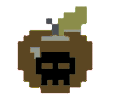
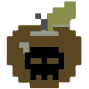
Updated sizes of objects

diff --git a/apple_catch.py b/apple_catch.py
@@ -25,8 +25,8 @@ def main():
     next_apple_time = time.time()
     next_worm_time = time.time() + 2
     next_poison_time = time.time() + random.randint(10, 40)
-    next_golden_apple = time.time() + random.randint(25, 55) # make this much longer
-    next_extra_jump = time.time() + random.randint(25, 55)
+    next_golden_apple = time.time() + random.randint(1, 2) # make this much longer
+    next_extra_jump = time.time() + random.randint(1, 2)
     next_speed_boost = time.time() + random.randint(1, 2) # make this much longer
     next_extra_lives_time = time.time() + random.randint(2, 4)
     next_turtle_time = time.time() + random.randint(5,10)
@@ -94,7 +94,7 @@ def main():
         # Initialize
         def __init__(self):
             super(Player, self).__init__()
-            self.surf = pygame.transform.scale(player_img, (100, 100)).convert_alpha()
+            self.surf = pygame.transform.scale(player_img, (75, 75)).convert_alpha()
             # self.surf.fill((255, 255, 255))
             self.rect = self.surf.get_rect(center=(starting_width, starting_height))
             self.speed = 5
@@ -181,7 +181,7 @@ def main():
             
             # Object Surface Properties
 
-            self.surf = pygame.transform.scale(apple_img, (50, 50)).convert_alpha()
+            self.surf = pygame.transform.scale(apple_img, (30, 30)).convert_alpha()
 
 
             # self.surf.fill((255, 255, 255))
@@ -195,7 +195,7 @@ def main():
             super(Golden_Apple, self).__init__()
 
             # Object surface properties
-            self.surf = pygame.transform.scale(gold_apple_img, (61, 50)).convert_alpha()
+            self.surf = pygame.transform.scale(gold_apple_img, (30, 30)).convert_alpha()
             # self.surf.fill((212, 175, 55))
             self.rect = self.surf.get_rect(center=(self.starting_x, -50))
 
@@ -208,7 +208,7 @@ def main():
             super(Worm, self).__init__()
 
             # Object Surface Properties
-            self.surf = pygame.transform.scale(worm_img, (40, 40)).convert_alpha()
+            self.surf = pygame.transform.scale(worm_img, (35, 35)).convert_alpha()
             # self.surf.fill((0, 0, 0))
             self.rect = self.surf.get_rect(center=(self.starting_x, -50))
 
@@ -225,7 +225,7 @@ def main():
             super(Poison_Apple, self).__init__()
 
             # Object Surface Properties
-            self.surf = pygame.transform.scale(bad_apple_img, (50, 50)).convert_alpha()
+            self.surf = pygame.transform.scale(bad_apple_img, (30, 30)).convert_alpha()
             # self.surf.fill((148, 178, 28))
             self.rect = self.surf.get_rect(center=(self.starting_x, -50))
 
@@ -242,7 +242,7 @@ def main():
             super(Extra_Jump, self).__init__()
 
             # Object Surface Properties
-            self.surf = pygame.transform.scale(extra_jump_img, (35, 40)).convert_alpha()
+            self.surf = pygame.transform.scale(extra_jump_img, (30, 58)).convert_alpha()
             # self.surf.fill((20, 20, 210))
             self.rect = self.surf.get_rect(center=(self.starting_x, -50))
 
@@ -255,7 +255,7 @@ def main():
             super(Speed_Boost, self).__init__()
 
             # Object Surface Properties
-            self.surf = pygame.transform.scale(speed_img, (35, 35)).convert_alpha()
+            self.surf = pygame.transform.scale(speed_img, (39, 30)).convert_alpha()
             # self.surf.fill((175, 55, 212))
             self.rect = self.surf.get_rect(center=(self.starting_x, -50))
 
@@ -269,7 +269,7 @@ def main():
         def __init__(self):
             super(Extra_Lives, self).__init__()
 
-            self.surf = pygame.transform.scale(red_heart_img, (50, 50)).convert_alpha()
+            self.surf = pygame.transform.scale(red_heart_img, (30, 30)).convert_alpha()
             # self.surf.fill((240, 180, 240))
             self.rect = self.surf.get_rect(center=(self.starting_x, -50))
 
@@ -281,7 +281,7 @@ def main():
             super(Turtle, self).__init__()
 
             # Object Surface Properties
-            self.surf = pygame.transform.scale(slow_img, (40, 40)).convert_alpha()
+            self.surf = pygame.transform.scale(slow_img, (44, 25)).convert_alpha()
             # self.surf.fill((240, 94, 35))
             self.rect = self.surf.get_rect(center=(self.starting_x, -50))
 
@@ -423,7 +423,7 @@ def main():
             if player_loss == False and player_victory == False:
                 # For the GOOD items
                 for catchable in all_catchables:
-                    if pygame.sprite.collide_rect(player, catchable):
+                    if pygame.sprite.collide_rect_ratio(0.6)(player, catchable):
                         catchable.kill()
                         catchable.rect.top = height + 100
                         if type(catchable) == Apple:
@@ -442,7 +442,7 @@ def main():
                             lives_remaining = min(lives_remaining, max_lives)
                 # For the BAD items
                 for avoidable in all_avoidables:
-                    if pygame.sprite.collide_rect(player, avoidable):
+                    if pygame.sprite.collide_rect_ratio(0.6)(player, avoidable):
                         avoidable.kill()
                         avoidable.rect.top = height + 100
                         if type(avoidable) == Worm:
